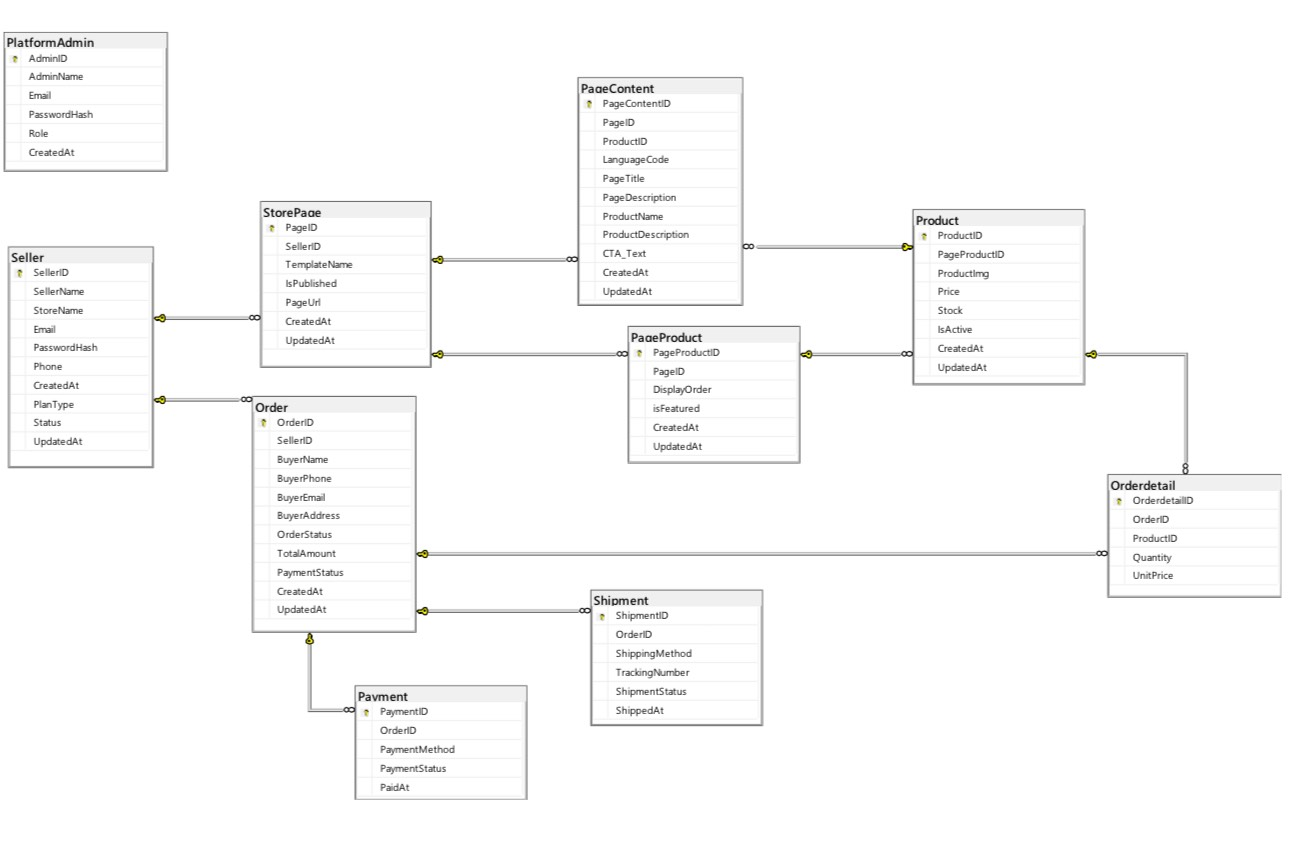
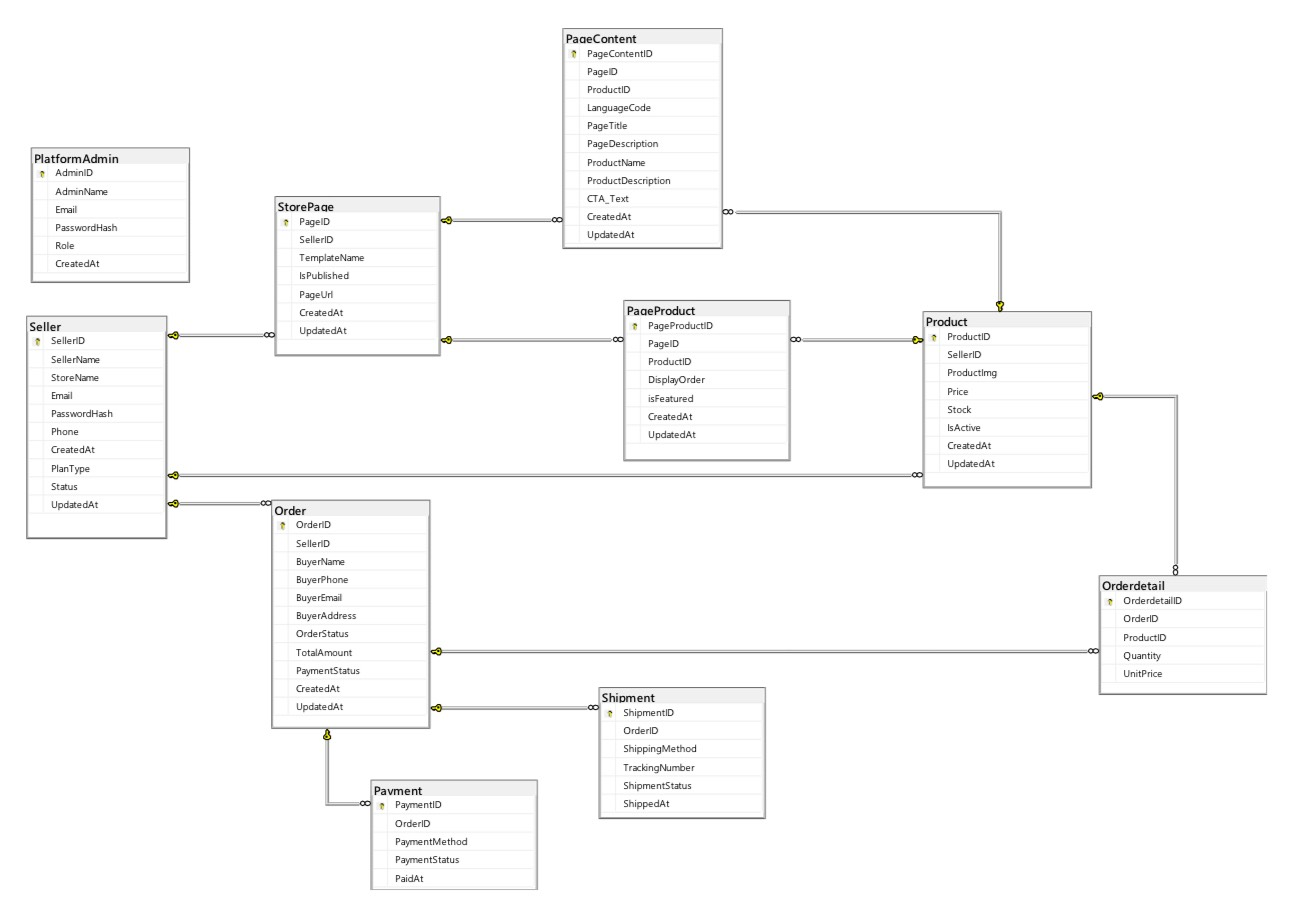
fix: 調整資料庫架構、解除循環關聯並同步 Models 欄位

Changed region(s): [[0.0, 0.0308, 1.0, 0.9846], [0.4031, 0.8615, 0.4341, 0.9538], [0.124, 0.1538, 0.155, 0.2154]]

diff --git a/models/index.js b/models/index.js
@@ -1,0 +1,56 @@
+const Seller = require('./Seller')
+const StorePage = require('./StorePage')
+const PageContent = require('./PageContent')
+const PageProduct = require('./PageProduct')
+const Product = require('./Product')
+const Order = require('./Order')
+const Orderdetail = require('./Orderdetail')
+const Payment = require('./Payment')
+const Shipment = require('./Shipment')
+const PlatformAdmin = require('./PlatformAdmin')
+
+Seller.hasMany(StorePage, { foreignKey: 'SellerID' })
+StorePage.belongsTo(Seller, { foreignKey: 'SellerID' })
+
+Seller.hasMany(Product, { foreignKey: 'SellerID' })
+Product.belongsTo(Seller, { foreignKey: 'SellerID' })
+
+StorePage.hasMany(PageProduct, { foreignKey: 'PageID' })
+PageProduct.belongsTo(StorePage, { foreignKey: 'PageID' })
+
+Product.hasOne(PageProduct, { foreignKey: 'ProductID' })
+PageProduct.belongsTo(Product, { foreignKey: 'ProductID' })
+
+StorePage.hasMany(PageContent, { foreignKey: 'PageID' })
+PageContent.belongsTo(StorePage, { foreignKey: 'PageID' })
+
+Product.hasMany(PageContent, { foreignKey: 'ProductID' })
+PageContent.belongsTo(Product, { foreignKey: 'ProductID' })
+
+Seller.hasMany(Order, { foreignKey: 'SellerID' })
+Order.belongsTo(Seller, { foreignKey: 'SellerID' })
+
+Order.hasMany(Orderdetail, { foreignKey: 'OrderID' })
+Orderdetail.belongsTo(Order, { foreignKey: 'OrderID' })
+
+Product.hasMany(Orderdetail, { foreignKey: 'ProductID' })
+Orderdetail.belongsTo(Product, { foreignKey: 'ProductID' })
+
+Order.hasOne(Shipment, { foreignKey: 'OrderID' })
+Shipment.belongsTo(Order, { foreignKey: 'OrderID' })
+
+Order.hasOne(Payment, { foreignKey: 'OrderID' })
+Payment.belongsTo(Order, { foreignKey: 'OrderID' })
+
+module.exports = {
+  Seller,
+  StorePage,
+  PageContent,
+  PageProduct,
+  Product,
+  Order,
+  Orderdetail,
+  Payment,
+  Shipment,
+  PlatformAdmin
+}

diff --git a/models/PageContent.js b/models/PageContent.js
@@ -1,0 +1,18 @@
+const { DataTypes } = require('sequelize')
+const sequelize = require('../config/database')
+
+const PageContent = sequelize.define('PageContent', {
+  PageContentID: { type: DataTypes.INTEGER, autoIncrement: true, primaryKey: true },
+  PageID: { type: DataTypes.INTEGER, allowNull: false },
+  ProductID: { type: DataTypes.INTEGER, allowNull: false },
+  LanguageCode: { type: DataTypes.STRING(10), allowNull: false },
+  PageTitle: { type: DataTypes.STRING(200), allowNull: true },
+  PageDescription: { type: DataTypes.TEXT, allowNull: true },
+  ProductName: { type: DataTypes.STRING(200), allowNull: false },
+  ProductDescription: { type: DataTypes.TEXT, allowNull: true },
+  CTA_Text: { type: DataTypes.STRING(100), allowNull: false },
+  CreatedAt: { type: DataTypes.DATE, allowNull: false },
+  UpdatedAt: { type: DataTypes.DATE, allowNull: false }
+}, { tableName: 'PageContent', timestamps: false })
+
+module.exports = PageContent

diff --git a/models/Order.js b/models/Order.js
@@ -1,0 +1,18 @@
+const { DataTypes } = require('sequelize')
+const sequelize = require('../config/database')
+
+const Order = sequelize.define('Order', {
+  OrderID: { type: DataTypes.INTEGER, autoIncrement: true, primaryKey: true },
+  SellerID: { type: DataTypes.INTEGER, allowNull: false },
+  BuyerName: { type: DataTypes.STRING(100), allowNull: false },
+  BuyerPhone: { type: DataTypes.STRING(20), allowNull: false },
+  BuyerEmail: { type: DataTypes.STRING(255), allowNull: false },
+  BuyerAddress: { type: DataTypes.STRING(300), allowNull: false },
+  OrderStatus: { type: DataTypes.STRING(30), allowNull: false },
+  TotalAmount: { type: DataTypes.DECIMAL(12, 2), allowNull: false },
+  PaymentStatus: { type: DataTypes.INTEGER, allowNull: false },
+  CreatedAt: { type: DataTypes.DATE, allowNull: false },
+  UpdatedAt: { type: DataTypes.DATE, allowNull: false }
+}, { tableName: 'Order', timestamps: false })
+
+module.exports = Order

diff --git a/models/Seller.js b/models/Seller.js
@@ -1,0 +1,17 @@
+const { DataTypes } = require('sequelize')
+const sequelize = require('../config/database')
+
+const Seller = sequelize.define('Seller', {
+  SellerID: { type: DataTypes.INTEGER, autoIncrement: true, primaryKey: true },
+  SellerName: { type: DataTypes.STRING(100), allowNull: false },
+  StoreName: { type: DataTypes.STRING(100), allowNull: false },
+  Email: { type: DataTypes.STRING(255), allowNull: false },
+  PasswordHash: { type: DataTypes.STRING(255), allowNull: false },
+  Phone: { type: DataTypes.STRING(20), allowNull: false },
+  CreatedAt: { type: DataTypes.DATE, allowNull: false },
+  PlanType: { type: DataTypes.STRING(20), allowNull: false },
+  Status: { type: DataTypes.INTEGER, allowNull: false },
+  UpdatedAt: { type: DataTypes.DATE, allowNull: false }
+}, { tableName: 'Seller', timestamps: false })
+
+module.exports = Seller

diff --git a/models/Product.js b/models/Product.js
@@ -1,0 +1,15 @@
+const { DataTypes } = require('sequelize')
+const sequelize = require('../config/database')
+
+const Product = sequelize.define('Product', {
+  ProductID: { type: DataTypes.INTEGER, autoIncrement: true, primaryKey: true },
+  SellerID: { type: DataTypes.INTEGER, allowNull: false },
+  ProductImg: { type: DataTypes.TEXT, allowNull: false },
+  Price: { type: DataTypes.DECIMAL(18, 2), allowNull: false },
+  Stock: { type: DataTypes.INTEGER, allowNull: false },
+  IsActive: { type: DataTypes.BOOLEAN, allowNull: false },
+  CreatedAt: { type: DataTypes.DATE, allowNull: false },
+  UpdatedAt: { type: DataTypes.DATE, allowNull: false }
+}, { tableName: 'Product', timestamps: false })
+
+module.exports = Product

diff --git a/models/PageProduct.js b/models/PageProduct.js
@@ -1,0 +1,14 @@
+const { DataTypes } = require('sequelize')
+const sequelize = require('../config/database')
+
+const PageProduct = sequelize.define('PageProduct', {
+  PageProductID: { type: DataTypes.INTEGER, autoIncrement: true, primaryKey: true },
+  PageID: { type: DataTypes.INTEGER, allowNull: false },
+  ProductID: { type: DataTypes.INTEGER, allowNull: false },
+  DisplayOrder: { type: DataTypes.INTEGER, allowNull: false },
+  isFeatured: { type: DataTypes.BOOLEAN, allowNull: false },
+  CreatedAt: { type: DataTypes.DATE, allowNull: false },
+  UpdatedAt: { type: DataTypes.DATE, allowNull: false }
+}, { tableName: 'PageProduct', timestamps: false })
+
+module.exports = PageProduct

diff --git a/models/StorePage.js b/models/StorePage.js
@@ -1,0 +1,14 @@
+const { DataTypes } = require('sequelize')
+const sequelize = require('../config/database')
+
+const StorePage = sequelize.define('StorePage', {
+  PageID: { type: DataTypes.INTEGER, autoIncrement: true, primaryKey: true },
+  SellerID: { type: DataTypes.INTEGER, allowNull: false },
+  TemplateName: { type: DataTypes.STRING(50), allowNull: false },
+  IsPublished: { type: DataTypes.BOOLEAN, allowNull: false },
+  PageUrl: { type: DataTypes.STRING(100), allowNull: false },
+  CreatedAt: { type: DataTypes.DATE, allowNull: false },
+  UpdatedAt: { type: DataTypes.DATE, allowNull: false }
+}, { tableName: 'StorePage', timestamps: false })
+
+module.exports = StorePage

diff --git a/models/PlatformAdmin.js b/models/PlatformAdmin.js
@@ -1,0 +1,13 @@
+const { DataTypes } = require('sequelize')
+const sequelize = require('../config/database')
+
+const PlatformAdmin = sequelize.define('PlatformAdmin', {
+  AdminID: { type: DataTypes.INTEGER, autoIncrement: true, primaryKey: true },
+  AdminName: { type: DataTypes.STRING(100), allowNull: false },
+  Email: { type: DataTypes.STRING(255), allowNull: false },
+  PasswordHash: { type: DataTypes.STRING(255), allowNull: false },
+  Role: { type: DataTypes.STRING(50), allowNull: false },
+  CreatedAt: { type: DataTypes.DATE, allowNull: false }
+}, { tableName: 'PlatformAdmin', timestamps: false })
+
+module.exports = PlatformAdmin

diff --git a/models/Shipment.js b/models/Shipment.js
@@ -1,0 +1,13 @@
+const { DataTypes } = require('sequelize')
+const sequelize = require('../config/database')
+
+const Shipment = sequelize.define('Shipment', {
+  ShipmentID: { type: DataTypes.INTEGER, autoIncrement: true, primaryKey: true },
+  OrderID: { type: DataTypes.INTEGER, allowNull: false },
+  ShippingMethod: { type: DataTypes.STRING(50), allowNull: false },
+  TrackingNumber: { type: DataTypes.STRING(100), allowNull: false },
+  ShipmentStatus: { type: DataTypes.STRING(30), allowNull: false },
+  ShippedAt: { type: DataTypes.DATE, allowNull: false }
+}, { tableName: 'Shipment', timestamps: false })
+
+module.exports = Shipment

diff --git a/routes/product.js b/routes/product.js
@@ -25,7 +25,7 @@ router.get('/', async (req, res) => {
   const data = [
     {
       ProductID: 2001,
-      PageProductID: 9001,
+      SellerID: 123,
       ProductImg: 'https://cdn.example.com/p/2001.png',
       Price: money(1990),
       Stock: 50,
@@ -45,7 +45,7 @@ router.get('/:ProductID', async (req, res) => {
   // TODO: 這裡請組員實作實際的 Sequelize 查詢（指定 Product 與對應語系內容）
   const data = {
     ProductID: id,
-    PageProductID: 9001,
+    SellerID: 123,
     ProductImg: `https://cdn.example.com/p/${id}.png`,
     Price: money(1990),
     Stock: 50,

diff --git a/models/Orderdetail.js b/models/Orderdetail.js
@@ -1,0 +1,12 @@
+const { DataTypes } = require('sequelize')
+const sequelize = require('../config/database')
+
+const Orderdetail = sequelize.define('Orderdetail', {
+  OrderdetailID: { type: DataTypes.INTEGER, autoIncrement: true, primaryKey: true },
+  OrderID: { type: DataTypes.INTEGER, allowNull: false },
+  ProductID: { type: DataTypes.INTEGER, allowNull: false },
+  Quantity: { type: DataTypes.INTEGER, allowNull: false },
+  UnitPrice: { type: DataTypes.DECIMAL(12, 2), allowNull: false }
+}, { tableName: 'Orderdetail', timestamps: false })
+
+module.exports = Orderdetail

diff --git a/models/Payment.js b/models/Payment.js
@@ -1,0 +1,12 @@
+const { DataTypes } = require('sequelize')
+const sequelize = require('../config/database')
+
+const Payment = sequelize.define('Payment', {
+  PaymentID: { type: DataTypes.INTEGER, autoIncrement: true, primaryKey: true },
+  OrderID: { type: DataTypes.INTEGER, allowNull: false },
+  PaymentMethod: { type: DataTypes.STRING(50), allowNull: false },
+  PaymentStatus: { type: DataTypes.STRING(50), allowNull: false },
+  PaidAt: { type: DataTypes.DATE, allowNull: false }
+}, { tableName: 'Payment', timestamps: false })
+
+module.exports = Payment
